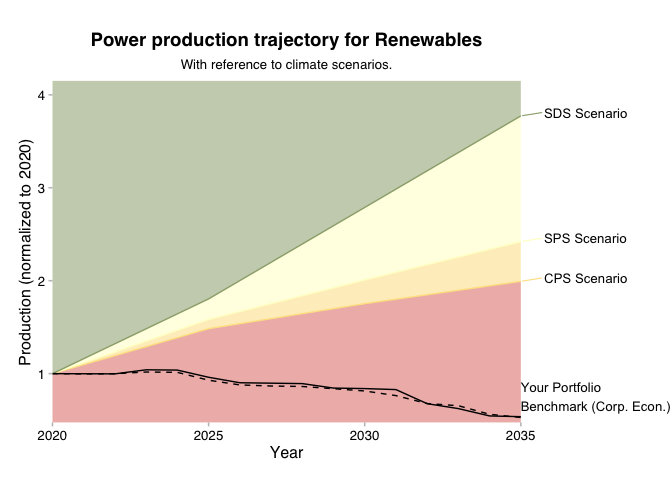
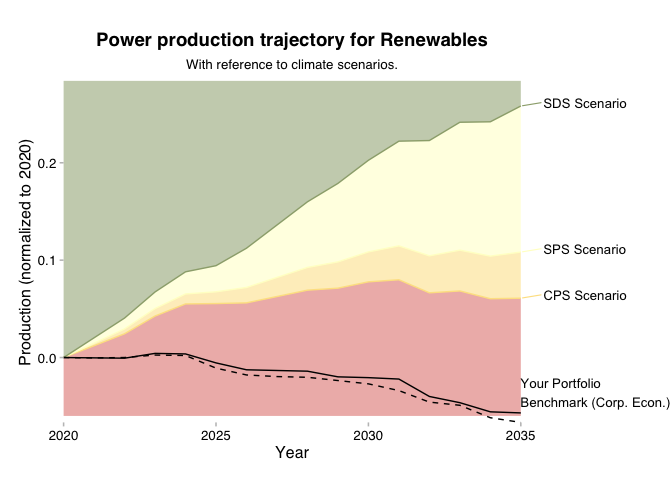
Update README

Changed region(s): [[0.0625, 0.1562, 1.0, 0.9688], [0.125, 0.0625, 0.7188, 0.1562], [0.6875, 0.5625, 0.9375, 0.625]]

diff --git a/README.md b/README.md
@@ -63,13 +63,12 @@ library(r2dii.plot)
 data <- market_share %>%
   filter(
     sector == "power",
-    technology == "renewablescap",
+    technology == "oilcap",
     region == "global",
     scenario_source == "demo_2020"
   )
 
 qplot_trajectory(data)
-#> Normalizing `production` values to 2020 -- the start year.
 ```
 
 <img src="man/figures/README-unnamed-chunk-2-1.png" width="100%" style="display: block; margin: auto auto auto 0;" />
@@ -105,7 +104,6 @@ plot_trajectory(data) +
     x = "Year",
     y = "Production (normalized to 2020)"
   )
-#> Normalizing `production` values to 2020 -- the start year.
 ```
 
 <img src="man/figures/README-unnamed-chunk-3-1.png" width="100%" style="display: block; margin: auto auto auto 0;" />
